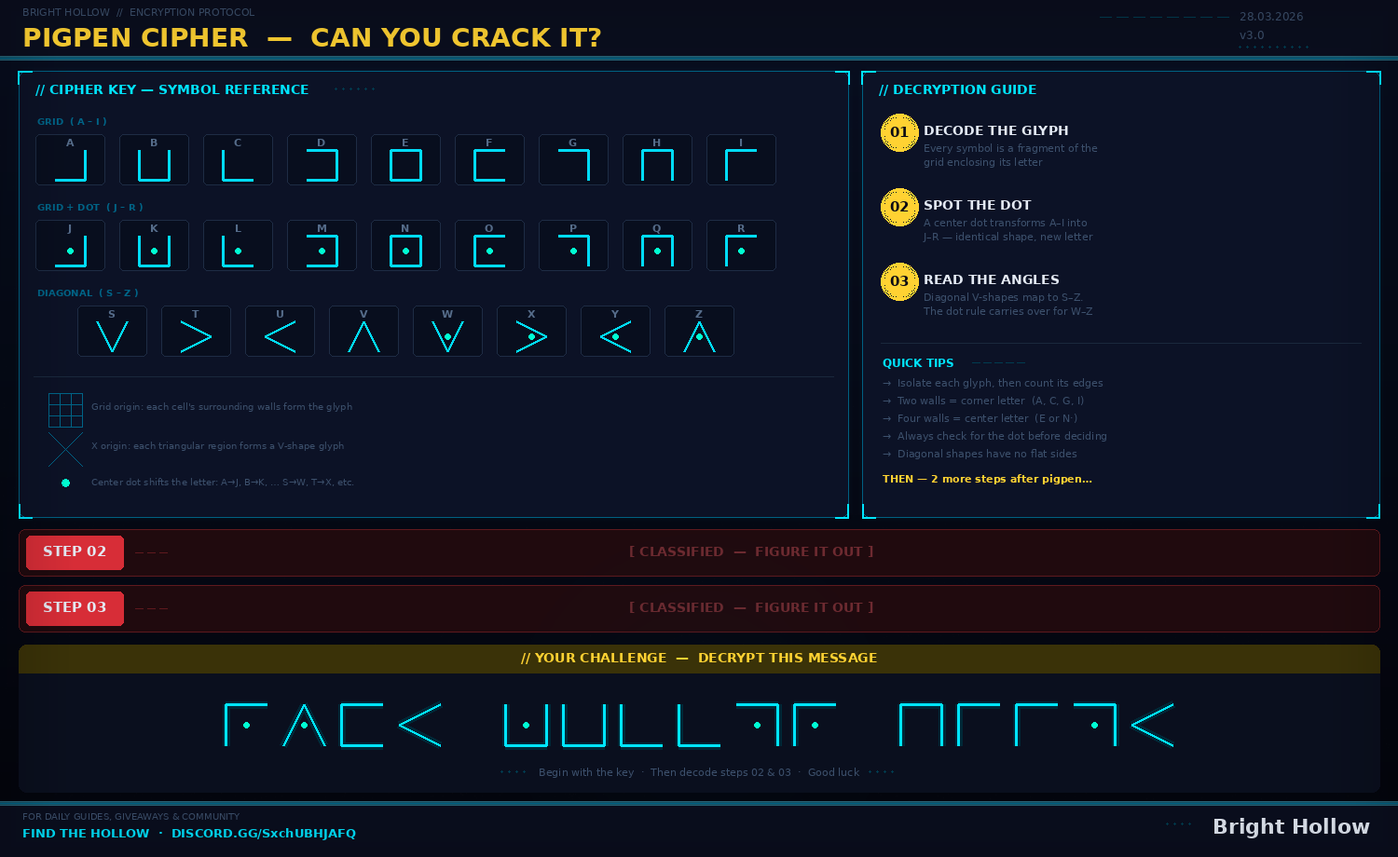
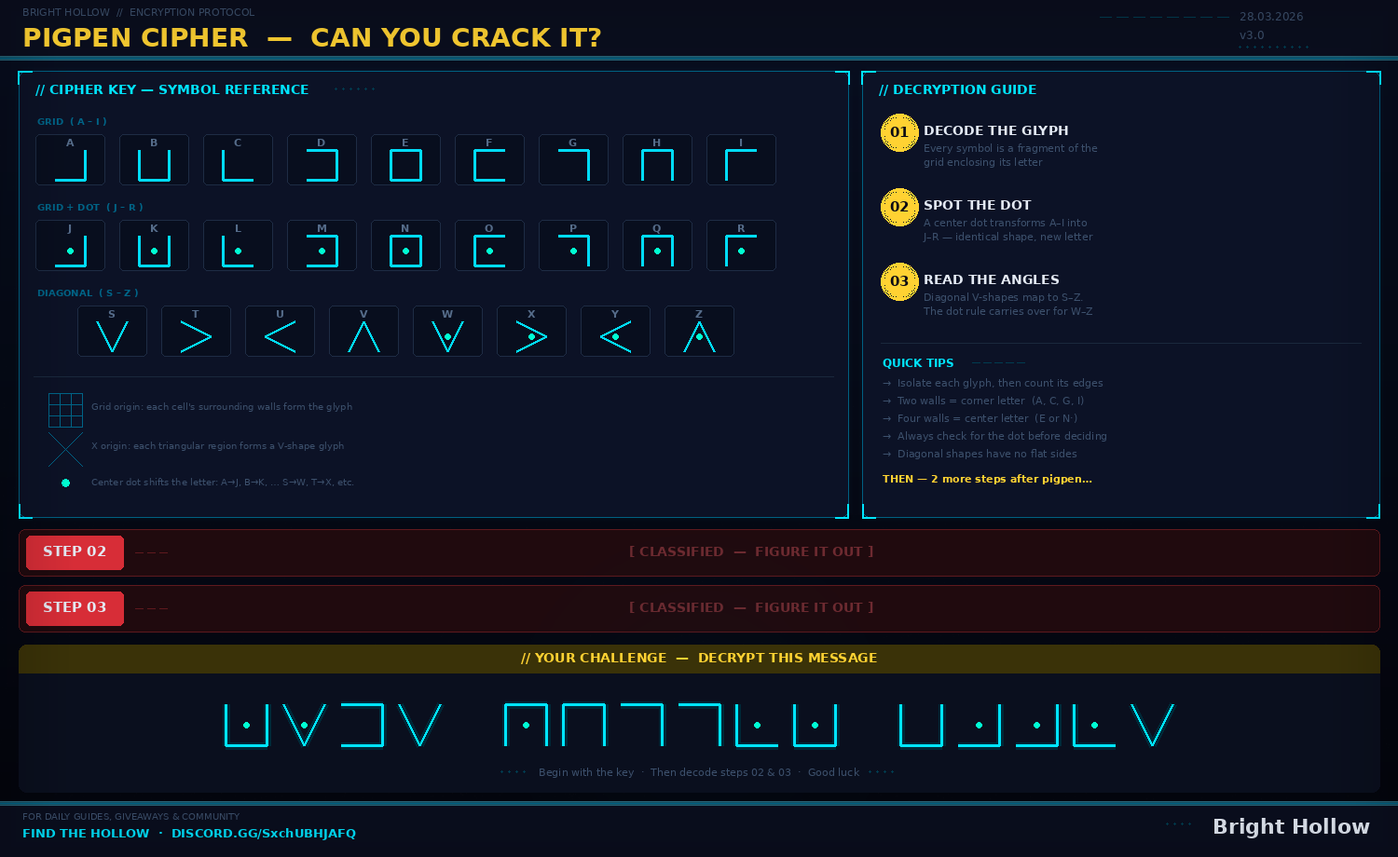
fixes

Changed region(s): [[0.644, 0.7913, 0.8587, 0.8826], [0.368, 0.8217, 0.6133, 0.8826], [0.1533, 0.8217, 0.3373, 0.8826]]

diff --git a/modules/render/community-tabs.js b/modules/render/community-tabs.js
@@ -5405,6 +5405,7 @@ export function renderIdleonAdminTab(userTier) {
 (function(){
   var model={members:[],guilds:[],config:{},kickLog:[],waitlist:[],promotionList:[],importLog:[]};
   var currentPanel='firebase';
+  function _on(id,ev,fn){var el=document.getElementById(id);if(el)el.addEventListener(ev,fn);}
   function safe(v){return String(v==null?'':v).replace(/[&<>"']/g,function(c){return({'&':'&amp;','<':'&lt;','>':'&gt;','"':'&quot;',"'":'&#39;'})[c];});}
   function fmtN(n){return Number(n||0).toLocaleString();}
   function normHist(r){return(Array.isArray(r)?r:[]).map(function(h){return{weekStart:String(h.weekStart||'').slice(0,10),gp:Math.max(0,Number(h.gp||0))}}).filter(function(h){return /^\\d{4}-\\d{2}-\\d{2}$/.test(h.weekStart)&&Number.isFinite(h.gp)});}
@@ -5447,11 +5448,11 @@ export function renderIdleonAdminTab(userTier) {
     }
     rewardSel.value=savedReward;
     // Auto-kick fields
-    document.getElementById('idlCfgAutoKick').checked=!!cfg.autoKickEnabled;
-    document.getElementById('idlCfgAutoKickRisk').value=cfg.autoKickMinRisk||70;
-    document.getElementById('idlCfgAutoKickGrace').value=cfg.autoKickGraceDays||3;
-    document.getElementById('idlCfgAutoKickMax').value=cfg.autoKickMaxPerCycle||5;
-    document.getElementById('idlCfgAutoKickLogCh').value=cfg.autoKickLogChannelId||'';
+    var _ak1=document.getElementById('idlCfgAutoKick');if(_ak1)_ak1.checked=!!cfg.autoKickEnabled;
+    var _ak2=document.getElementById('idlCfgAutoKickRisk');if(_ak2)_ak2.value=cfg.autoKickMinRisk||70;
+    var _ak3=document.getElementById('idlCfgAutoKickGrace');if(_ak3)_ak3.value=cfg.autoKickGraceDays||3;
+    var _ak4=document.getElementById('idlCfgAutoKickMax');if(_ak4)_ak4.value=cfg.autoKickMaxPerCycle||5;
+    var _ak5=document.getElementById('idlCfgAutoKickLogCh');if(_ak5)_ak5.value=cfg.autoKickLogChannelId||'';
     // Promotion fields
     document.getElementById('idlCfgPromoThread').value=cfg.promotionThreadId||'';
     document.getElementById('idlCfgPromoPing').value=String(!!cfg.promotionPingEnabled);
@@ -5472,11 +5473,11 @@ export function renderIdleonAdminTab(userTier) {
       loaChannelId:document.getElementById('idlCfgLoaCh').value.trim(),
       reviewChannelId:document.getElementById('idlCfgReviewCh').value.trim(),
       reviewTwitchRewardId:document.getElementById('idlCfgReviewRewardId').value.trim(),
-      autoKickEnabled:document.getElementById('idlCfgAutoKick').checked,
-      autoKickMinRisk:Number(document.getElementById('idlCfgAutoKickRisk').value)||70,
-      autoKickGraceDays:Number(document.getElementById('idlCfgAutoKickGrace').value)||3,
-      autoKickMaxPerCycle:Number(document.getElementById('idlCfgAutoKickMax').value)||5,
-      autoKickLogChannelId:document.getElementById('idlCfgAutoKickLogCh').value.trim(),
+      autoKickEnabled:(document.getElementById('idlCfgAutoKick')||{}).checked||false,
+      autoKickMinRisk:Number((document.getElementById('idlCfgAutoKickRisk')||{}).value)||70,
+      autoKickGraceDays:Number((document.getElementById('idlCfgAutoKickGrace')||{}).value)||3,
+      autoKickMaxPerCycle:Number((document.getElementById('idlCfgAutoKickMax')||{}).value)||5,
+      autoKickLogChannelId:(document.getElementById('idlCfgAutoKickLogCh')||{value:''}).value.trim(),
       promotionThreadId:document.getElementById('idlCfgPromoThread').value.trim(),
       promotionPingEnabled:document.getElementById('idlCfgPromoPing').value==='true',
       promotionPingAfterHours:Number(document.getElementById('idlCfgPromoPingHrs').value)||48,
@@ -5491,7 +5492,8 @@ export function renderIdleonAdminTab(userTier) {
   }
 
   /* --- Create Twitch reward via bot API --- */
-  document.getElementById('idlCfgCreateReward').addEventListener('click',function(){
+  var _btnCreateReward=document.getElementById('idlCfgCreateReward');
+  if(_btnCreateReward) _btnCreateReward.addEventListener('click',function(){
     var status=document.getElementById('idlCfgCreateRewardStatus');
     var title=document.getElementById('idlCfgNewRewardTitle').value.trim()||'Account Review';
     var cost=Number(document.getElementById('idlCfgNewRewardCost').value)||10000;
@@ -5507,7 +5509,8 @@ export function renderIdleonAdminTab(userTier) {
   });
 
   /* --- Fetch Twitch rewards for dropdown --- */
-  document.getElementById('idlCfgFetchRewards').addEventListener('click',function(){
+  var _btnFetchRewards=document.getElementById('idlCfgFetchRewards');
+  if(_btnFetchRewards) _btnFetchRewards.addEventListener('click',function(){
     var status=document.getElementById('idlCfgRewardStatus');
     status.textContent='Fetching rewards from Twitch...';status.style.color='#8b8fa3';
     fetch('/api/idleon/twitch-rewards').then(function(r){return r.json()}).then(function(d){
@@ -5537,7 +5540,7 @@ export function renderIdleonAdminTab(userTier) {
     if(!confirm('Delete guild '+id+'?'))return;
     fetch('/api/idleon/guilds/delete',{method:'POST',headers:{'Content-Type':'application/json'},body:JSON.stringify({id:id})}).then(function(r){return r.json()}).then(function(d){if(d.success)load();else alert(d.error||'Failed')}).catch(function(e){alert(e.message)});
   };
-  document.getElementById('idlGuildsList').addEventListener('click',function(e){
+  _on('idlGuildsList','click',function(e){
     var btn=e.target.closest('[data-delguild]');
     if(btn)window.idlDeleteGuild(btn.dataset.delguild);
   });
@@ -5595,7 +5598,8 @@ export function renderIdleonAdminTab(userTier) {
   window.idlConfirmWait=function(id){
     fetch('/api/idleon/waitlist/update',{method:'POST',headers:{'Content-Type':'application/json'},body:JSON.stringify({id:id,status:'confirmed'})}).then(function(r){return r.json()}).then(function(d){if(d.success)load();else alert(d.error||'Failed')}).catch(function(e){alert(e.message)});
   };
-  document.getElementById('idlWaitRows').addEventListener('click',function(e){
+  var _elWaitRows=document.getElementById('idlWaitRows');
+  if(_elWaitRows) _elWaitRows.addEventListener('click',function(e){
     var btn=e.target.closest('[data-delwait]');
     if(btn)window.idlDeleteWait(btn.dataset.delwait);
     var cbtn=e.target.closest('[data-confirmwait]');
@@ -5621,7 +5625,8 @@ export function renderIdleonAdminTab(userTier) {
   window.idlConfirmPromo=function(id){
     fetch('/api/idleon/promotion-list/update',{method:'POST',headers:{'Content-Type':'application/json'},body:JSON.stringify({id:id,status:'confirmed'})}).then(function(r){return r.json()}).then(function(d){if(d.success)load();else alert(d.error||'Failed')}).catch(function(e){alert(e.message)});
   };
-  document.getElementById('idlPromoRows').addEventListener('click',function(e){
+  var _elPromoRows=document.getElementById('idlPromoRows');
+  if(_elPromoRows) _elPromoRows.addEventListener('click',function(e){
     var btn=e.target.closest('[data-delpromo]');
     if(btn)window.idlDeletePromo(btn.dataset.delpromo);
     var cbtn=e.target.closest('[data-confirmpromo]');
@@ -5792,7 +5797,7 @@ export function renderIdleonAdminTab(userTier) {
   if(ghostIgnoreEl)ghostIgnoreEl.addEventListener('change',function(){ghostHideIgnored=this.checked;renderGhostContent();});
 
   // Ghost action delegation
-  document.getElementById('idlGhostResults').addEventListener('click',function(e){
+  _on('idlGhostResults','click',function(e){
     // Link button (from suggestions)
     var linkBtn=e.target.closest('[data-ghost-link]');
     if(linkBtn){
@@ -5816,7 +5821,7 @@ export function renderIdleonAdminTab(userTier) {
   });
 
   // Manual link from dropdown
-  document.getElementById('idlGhostResults').addEventListener('change',function(e){
+  _on('idlGhostResults','change',function(e){
     var sel=e.target.closest('[data-ghost-manual]');
     if(!sel||!sel.value)return;
     var name=sel.dataset.ghostManual;
@@ -5829,7 +5834,7 @@ export function renderIdleonAdminTab(userTier) {
   });
 
   // Auto-link all confident matches
-  document.getElementById('idlGhostAutoLink').addEventListener('click',function(){
+  _on('idlGhostAutoLink','click',function(){
     if(!confirm('Auto-link all exact name matches? (This only links exact matches via the existing auto-link feature.)'))return;
     var el=document.getElementById('idlGhostResults');
     fetch('/api/idleon/auto-link',{method:'POST'}).then(function(r){return r.json()}).then(function(d){
@@ -5870,7 +5875,7 @@ export function renderIdleonAdminTab(userTier) {
     if(gsel&&gsel.options.length<=1){(model.guilds||[]).forEach(function(g){var o=document.createElement('option');o.value=g.id;o.textContent=g.name;gsel.appendChild(o);});}
   }
   // Undo kick handler
-  document.getElementById('idlKickLog').addEventListener('click',function(e){
+  _on('idlKickLog','click',function(e){
     var btn=e.target.closest('[data-undo-kick]');
     if(!btn)return;
     var name=btn.dataset.undoKick;
@@ -5882,12 +5887,12 @@ export function renderIdleonAdminTab(userTier) {
     }).catch(function(e){alert(e.message)}).finally(function(){btn.disabled=false;btn.textContent='↩ Undo';});
   });
   // Log search/filter
-  document.getElementById('idlLogSearch').addEventListener('input',function(){logState.search=this.value;logState.page=1;renderKickLog();});
-  document.getElementById('idlLogGuild').addEventListener('change',function(){logState.guild=this.value;logState.page=1;renderKickLog();});
-  document.getElementById('idlLogPrev').addEventListener('click',function(){if(logState.page>1){logState.page--;renderKickLog();}});
-  document.getElementById('idlLogNext').addEventListener('click',function(){logState.page++;renderKickLog();});
+  _on('idlLogSearch','input',function(){logState.search=this.value;logState.page=1;renderKickLog();});
+  _on('idlLogGuild','change',function(){logState.guild=this.value;logState.page=1;renderKickLog();});
+  _on('idlLogPrev','click',function(){if(logState.page>1){logState.page--;renderKickLog();}});
+  _on('idlLogNext','click',function(){logState.page++;renderKickLog();});
   // Export log CSV
-  document.getElementById('idlLogExport').addEventListener('click',function(){
+  _on('idlLogExport','click',function(){
     window.open('/api/idleon/export?format=csv','_blank');
   });
   // Log stats
@@ -5946,7 +5951,7 @@ export function renderIdleonAdminTab(userTier) {
     }).catch(function(e){el.innerHTML='<span style="color:#f44336">❌ '+e.message+'</span>';});
   }
   // Backup restore handler
-  document.getElementById('idlBackupList').addEventListener('click',function(e){
+  _on('idlBackupList','click',function(e){
     var btn=e.target.closest('[data-restore-bk]');if(!btn)return;
     var name=btn.dataset.restoreBk;
     if(!confirm('Restore from backup "'+name+'"? Current data will be overwritten.'))return;
@@ -5979,9 +5984,9 @@ export function renderIdleonAdminTab(userTier) {
   });
 
   // Buttons
-  document.getElementById('idlCfgSave').addEventListener('click',saveConfig);
-  document.getElementById('idlAutoKickSave').addEventListener('click',saveConfig);
-  document.getElementById('idlAutoKickPreviewBtn').addEventListener('click',function(){
+  _on('idlCfgSave','click',saveConfig);
+  _on('idlAutoKickSave','click',saveConfig);
+  _on('idlAutoKickPreviewBtn','click',function(){
     var el=document.getElementById('idlAutoKickPreview');if(!el)return;
     el.innerHTML='<span style="color:#ff9800">Loading...</span>';
     fetch('/api/idleon/auto-kick-status').then(function(r){return r.json()}).then(function(d){
@@ -5992,7 +5997,7 @@ export function renderIdleonAdminTab(userTier) {
         '</table></div>';
     }).catch(function(e){el.innerHTML='<span style="color:#f44336">❌ '+e.message+'</span>';});
   });
-  document.getElementById('idlResetAll').addEventListener('click',function(){
+  _on('idlResetAll','click',function(){
     if(!confirm('⚠ This will permanently clear ALL IdleOn member data, guild data, kick logs, and waitlist. Config is preserved.\\n\\nAre you sure?'))return;
     if(!confirm('FINAL WARNING: This cannot be undone. Type OK to proceed.'))return;
     var btn=this;btn.disabled=true;btn.textContent='Clearing...';
@@ -6002,8 +6007,8 @@ export function renderIdleonAdminTab(userTier) {
       else{document.getElementById('idlResetStatus').textContent='❌ '+d.error;}
     }).catch(function(e){btn.disabled=false;btn.textContent='🗑 Clear All IdleOn Data';alert(e.message);});
   });
-  document.getElementById('idlKickRefresh').addEventListener('click',renderKickQueue);
-  document.getElementById('idlKickSendWarnings').addEventListener('click',function(){
+  _on('idlKickRefresh','click',renderKickQueue);
+  _on('idlKickSendWarnings','click',function(){
     var slots=Number((document.getElementById('idlKickSlots')||{}).value)||5;
     fetch('/api/idleon/kick-candidates?count='+slots).then(function(r){return r.json()}).then(function(d){
       if(!d.success||!d.candidates||!d.candidates.length)return alert('No candidates');
@@ -6012,7 +6017,7 @@ export function renderIdleonAdminTab(userTier) {
       fetch('/api/idleon/send-warnings',{method:'POST',headers:{'Content-Type':'application/json'},body:JSON.stringify({names:names})}).then(function(r){return r.json()}).then(function(r){alert(r.success?'Sent '+r.sent+' warnings':'Failed: '+(r.error||''));}).catch(function(e){alert(e.message)});
     }).catch(function(e){alert(e.message)});
   });
-  document.getElementById('idlKickExecute').addEventListener('click',function(){
+  _on('idlKickExecute','click',function(){
     var slots=Number((document.getElementById('idlKickSlots')||{}).value)||5;
     fetch('/api/idleon/kick-candidates?count='+slots).then(function(r){return r.json()}).then(function(d){
       if(!d.success||!d.candidates||!d.candidates.length)return alert('No candidates');
@@ -6021,28 +6026,28 @@ export function renderIdleonAdminTab(userTier) {
       fetch('/api/idleon/bulk-action',{method:'POST',headers:{'Content-Type':'application/json'},body:JSON.stringify({names:names,action:'kick'})}).then(function(r){return r.json()}).then(function(r){alert(r.success?'Kicked '+r.updated+' members':'Failed: '+(r.error||''));load();}).catch(function(e){alert(e.message)});
     }).catch(function(e){alert(e.message)});
   });
-  document.getElementById('idlWaitScan').addEventListener('click',function(){
+  _on('idlWaitScan','click',function(){
     fetch('/api/idleon/scan-forum',{method:'POST'}).then(function(r){return r.json()}).then(function(d){
       alert(d.success?'Found '+d.added+' new waitlist entries'+(d.skipped?' ('+d.skipped+' already known)':''):'Failed: '+(d.error||''));load();
     }).catch(function(e){alert(e.message)});
   });
-  document.getElementById('idlWaitAdd').addEventListener('click',function(){
+  _on('idlWaitAdd','click',function(){
     var name=prompt('Player name:');if(!name)return;
     var notes=prompt('Notes (optional):');
     fetch('/api/idleon/waitlist',{method:'POST',headers:{'Content-Type':'application/json'},body:JSON.stringify({name:name.trim(),notes:notes||''})}).then(function(r){return r.json()}).then(function(d){if(d.success)load();else alert(d.error||'Failed')}).catch(function(e){alert(e.message)});
   });
-  document.getElementById('idlPromoScan').addEventListener('click',function(){
+  _on('idlPromoScan','click',function(){
     fetch('/api/idleon/scan-promotion',{method:'POST'}).then(function(r){return r.json()}).then(function(d){
       alert(d.success?'Found '+(d.added||[]).length+' new promotion entries':'Failed: '+(d.error||''));load();
     }).catch(function(e){alert(e.message)});
   });
-  document.getElementById('idlPromoAdd').addEventListener('click',function(){
+  _on('idlPromoAdd','click',function(){
     var name=prompt('Player name:');if(!name)return;
     var guild=prompt('Target guild:');if(!guild)return;
     var notes=prompt('Notes (optional):');
     fetch('/api/idleon/promotion-list',{method:'POST',headers:{'Content-Type':'application/json'},body:JSON.stringify({name:name.trim(),targetGuild:guild.trim(),notes:notes||''})}).then(function(r){return r.json()}).then(function(d){if(d.success)load();else alert(d.error||'Failed')}).catch(function(e){alert(e.message)});
   });
-  document.getElementById('idlAddRole').addEventListener('click',function(){
+  _on('idlAddRole','click',function(){
     var gp=Number(document.getElementById('idlNewRoleGp').value);
     var roleId=(document.getElementById('idlNewRoleId').value||'').trim();
     var roleName=(document.getElementById('idlNewRoleName').value||'').trim();
@@ -6051,20 +6056,20 @@ export function renderIdleonAdminTab(userTier) {
     var cfg=Object.assign({},model.config,{roleMilestones:ms});
     fetch('/api/idleon/config',{method:'POST',headers:{'Content-Type':'application/json'},body:JSON.stringify(cfg)}).then(function(r){return r.json()}).then(function(d){if(d.success){document.getElementById('idlNewRoleGp').value='';document.getElementById('idlNewRoleId').value='';document.getElementById('idlNewRoleName').value='';load();}}).catch(function(){});
   });
-  document.getElementById('idlSyncRoles').addEventListener('click',function(){
+  _on('idlSyncRoles','click',function(){
     document.getElementById('idlRolesStatus').textContent='Syncing...';
     fetch('/api/idleon/sync-roles',{method:'POST'}).then(function(r){return r.json()}).then(function(d){
       document.getElementById('idlRolesStatus').textContent=d.success?'✅ Added: '+d.added+', Removed: '+d.removed+', Errors: '+d.errors:'❌ '+(d.error||'Failed');
     }).catch(function(e){document.getElementById('idlRolesStatus').textContent='❌ '+e.message;});
   });
-  document.getElementById('idlAutoLink').addEventListener('click',function(){
+  _on('idlAutoLink','click',function(){
     document.getElementById('idlRolesStatus').textContent='Linking...';
     fetch('/api/idleon/auto-link',{method:'POST'}).then(function(r){return r.json()}).then(function(d){
       document.getElementById('idlRolesStatus').textContent=d.success?'✅ Linked '+d.linked+' members ('+d.unlinked+' still unlinked)':'❌ '+(d.error||'Failed');
       load();
     }).catch(function(e){document.getElementById('idlRolesStatus').textContent='❌ '+e.message;});
   });
-  document.getElementById('idlGhostRefresh').addEventListener('click',loadGhosts);
+  _on('idlGhostRefresh','click',loadGhosts);
   // --- Firebase handlers ---
   function loadFirebaseStatus(){
     fetch('/api/idleon/firebase/status').then(function(r){return r.json()}).then(function(d){
@@ -6097,7 +6102,7 @@ export function renderIdleonAdminTab(userTier) {
     }).catch(function(){});
   }
   var fbAuthPollTimer=null;
-  document.getElementById('fbStartAuth').addEventListener('click',function(){
+  _on('fbStartAuth','click',function(){
     var btn=this;btn.disabled=true;
     fetch('/api/idleon/firebase/start-auth',{method:'POST'}).then(function(r){return r.json()}).then(function(d){
       if(!d.success)throw new Error(d.error||'Failed');
@@ -6126,13 +6131,13 @@ export function renderIdleonAdminTab(userTier) {
       },3000);
     }).catch(function(e){document.getElementById('fbAuthResult').innerHTML='<span style="color:#f44336">❌ '+safe(e.message)+'</span>';btn.disabled=false;});
   });
-  document.getElementById('fbDisconnect').addEventListener('click',function(){
+  _on('fbDisconnect','click',function(){
     if(!confirm('Disconnect Google account? Polling will stop.'))return;
     fetch('/api/idleon/firebase/disconnect',{method:'POST'}).then(function(r){return r.json()}).then(function(){
       loadFirebaseStatus();
     }).catch(function(){});
   });
-  document.getElementById('fbSearchBtn').addEventListener('click',function(){
+  _on('fbSearchBtn','click',function(){
     var name=(document.getElementById('fbGuildSearch').value||'').trim();
     if(!name)return;
     var el=document.getElementById('fbSearchResults');
@@ -6155,7 +6160,7 @@ export function renderIdleonAdminTab(userTier) {
       });
     }).catch(function(e){el.innerHTML='<span style="color:#f44336">❌ '+safe(e.message)+'</span>';});
   });
-  document.getElementById('fbRefreshNow').addEventListener('click',function(){
+  _on('fbRefreshNow','click',function(){
     var el=document.getElementById('fbRefreshResult');
     el.textContent='Fetching from Firebase...';
     fetch('/api/idleon/firebase/refresh',{method:'POST'}).then(function(r){return r.json()}).then(function(d){
@@ -6168,27 +6173,27 @@ export function renderIdleonAdminTab(userTier) {
       load(); // refresh main data
     }).catch(function(e){el.innerHTML='<span style="color:#f44336">❌ '+safe(e.message)+'</span>';});
   });
-  document.getElementById('fbStartPoll').addEventListener('click',function(){
+  _on('fbStartPoll','click',function(){
     var mins=Number(document.getElementById('fbPollInterval').value)||60;
     fetch('/api/idleon/firebase/polling',{method:'POST',headers:{'Content-Type':'application/json'},body:JSON.stringify({action:'start',intervalMinutes:mins})}).then(function(r){return r.json()}).then(function(d){
       document.getElementById('fbPollStatus').textContent=d.success?'✅ Polling every '+d.intervalMinutes+' min':'❌ '+(d.error||'Failed');
     }).catch(function(){});
   });
-  document.getElementById('fbStopPoll').addEventListener('click',function(){
+  _on('fbStopPoll','click',function(){
     fetch('/api/idleon/firebase/polling',{method:'POST',headers:{'Content-Type':'application/json'},body:JSON.stringify({action:'stop'})}).then(function(r){return r.json()}).then(function(d){
       document.getElementById('fbPollStatus').textContent=d.success?'⏸ Polling stopped':'❌ '+(d.error||'Failed');
     }).catch(function(){});
   });
   if(currentPanel==='firebase')loadFirebaseStatus();
 
-  document.getElementById('idlScanForum').addEventListener('click',function(){
+  _on('idlScanForum','click',function(){
     document.getElementById('idlScanForumResult').textContent='Scanning...';
     fetch('/api/idleon/scan-forum',{method:'POST'}).then(function(r){return r.json()}).then(function(d){
       document.getElementById('idlScanForumResult').innerHTML=d.success?'✅ Added: '+d.added+', Skipped: '+(d.skipped||0):'❌ '+(d.error||'Failed');
       load();
     }).catch(function(e){document.getElementById('idlScanForumResult').textContent='❌ '+e.message;});
   });
-  document.getElementById('idlSendDigest').addEventListener('click',function(){
+  _on('idlSendDigest','click',function(){
     document.getElementById('idlDigestResult').textContent='Sending...';
     fetch('/api/idleon/digest',{method:'POST'}).then(function(r){return r.json()}).then(function(d){
       document.getElementById('idlDigestResult').innerHTML=d.success?'✅ Digest sent!':'❌ '+(d.error||'Failed');
@@ -6196,7 +6201,7 @@ export function renderIdleonAdminTab(userTier) {
   });
 
   // --- Dry Run Roles ---
-  document.getElementById('idlSyncRolesDry').addEventListener('click',function(){
+  _on('idlSyncRolesDry','click',function(){
     var el=document.getElementById('idlDryRunResult');if(!el)return;
     el.innerHTML='<span style="color:#ff9800">Running dry run...</span>';
     fetch('/api/idleon/sync-roles-dry',{method:'POST'}).then(function(r){return r.json()}).then(function(d){
@@ -6209,12 +6214,12 @@ export function renderIdleonAdminTab(userTier) {
   });
 
   // --- Config Export/Import/Reset ---
-  document.getElementById('idlCfgExport').addEventListener('click',function(){
+  _on('idlCfgExport','click',function(){
     var blob=new Blob([JSON.stringify(model.config,null,2)],{type:'application/json'});
     var a=document.createElement('a');a.href=URL.createObjectURL(blob);a.download='idleon-config.json';a.click();URL.revokeObjectURL(a.href);
   });
-  document.getElementById('idlCfgImport').addEventListener('click',function(){document.getElementById('idlCfgImportFile').click()});
-  document.getElementById('idlCfgImportFile').addEventListener('change',function(e){
+  _on('idlCfgImport','click',function(){document.getElementById('idlCfgImportFile').click()});
+  _on('idlCfgImportFile','change',function(e){
     var file=e.target.files[0];if(!file)return;
     var reader=new FileReader();reader.onload=function(ev){
       try{var cfg=JSON.parse(ev.target.result);
@@ -6224,7 +6229,7 @@ export function renderIdleonAdminTab(userTier) {
       }catch(err){document.getElementById('idlCfgStatus').textContent='❌ Invalid JSON';}
     };reader.readAsText(file);
   });
-  document.getElementById('idlCfgReset').addEventListener('click',function(){
+  _on('idlCfgReset','click',function(){
     if(!confirm('Reset config to defaults? Current settings will be lost.'))return;
     fetch('/api/idleon/config/reset',{method:'POST'}).then(function(r){return r.json()}).then(function(d){
       document.getElementById('idlCfgStatus').textContent=d.success?'✅ Reset to defaults':'❌ '+(d.error||'Failed');if(d.success)load();
@@ -6232,17 +6237,17 @@ export function renderIdleonAdminTab(userTier) {
   });
 
   // --- Backup handlers ---
-  document.getElementById('idlBackupCreate').addEventListener('click',function(){
+  _on('idlBackupCreate','click',function(){
     var el=document.getElementById('idlBackupStatus');el.textContent='Creating backup...';
     fetch('/api/idleon/backup',{method:'POST'}).then(function(r){return r.json()}).then(function(d){
       el.innerHTML=d.success?'<span style="color:#4caf50">✅ Backup created: '+safe(d.name||'')+'</span>':'<span style="color:#f44336">❌ '+(d.error||'Failed')+'</span>';
       renderBackupList();
     }).catch(function(e){el.innerHTML='<span style="color:#f44336">❌ '+e.message+'</span>';});
   });
-  document.getElementById('idlBackupRefresh').addEventListener('click',renderBackupList);
+  _on('idlBackupRefresh','click',renderBackupList);
 
   // --- Integrity ---
-  document.getElementById('idlIntegrityRun').addEventListener('click',function(){
+  _on('idlIntegrityRun','click',function(){
     var el=document.getElementById('idlIntegrityResult');el.innerHTML='<span style="color:#ff9800">Checking...</span>';
     fetch('/api/idleon/integrity').then(function(r){return r.json()}).then(function(d){
       if(!d.success){el.innerHTML='<span style="color:#f44336">❌ '+(d.error||'Failed')+'</span>';return;}
@@ -6255,8 +6260,8 @@ export function renderIdleonAdminTab(userTier) {
   });
 
   // --- Export data ---
-  document.getElementById('idlExportCsv').addEventListener('click',function(){window.open('/api/idleon/export?format=csv','_blank');});
-  document.getElementById('idlExportJson').addEventListener('click',function(){window.open('/api/idleon/export?format=json','_blank');});
+  _on('idlExportCsv','click',function(){window.open('/api/idleon/export?format=csv','_blank');});
+  _on('idlExportJson','click',function(){window.open('/api/idleon/export?format=json','_blank');});
 
   load();
 })();

diff --git a/generate-cipher-card-v3.py b/generate-cipher-card-v3.py
@@ -17,7 +17,7 @@ import math, os, random
 WIDTH, HEIGHT = 1500, 920
 OUTPUT = "pigpen-cipher-v3.png"
 
-CHALLENGE_TEXT = "RZFU KBCCPR HIIPU"
+CHALLENGE_TEXT = "KWDS QHGGLK BJJLS"
 
 # ── Color Palette ──
 BG_TOP     = (8, 14, 32)
